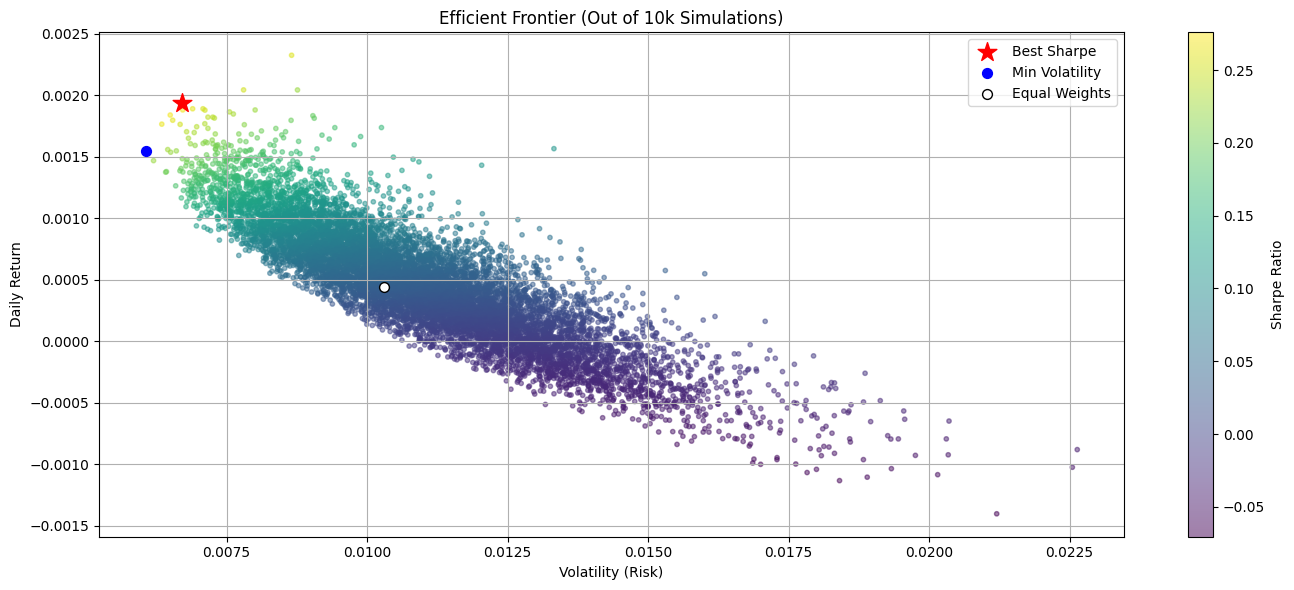
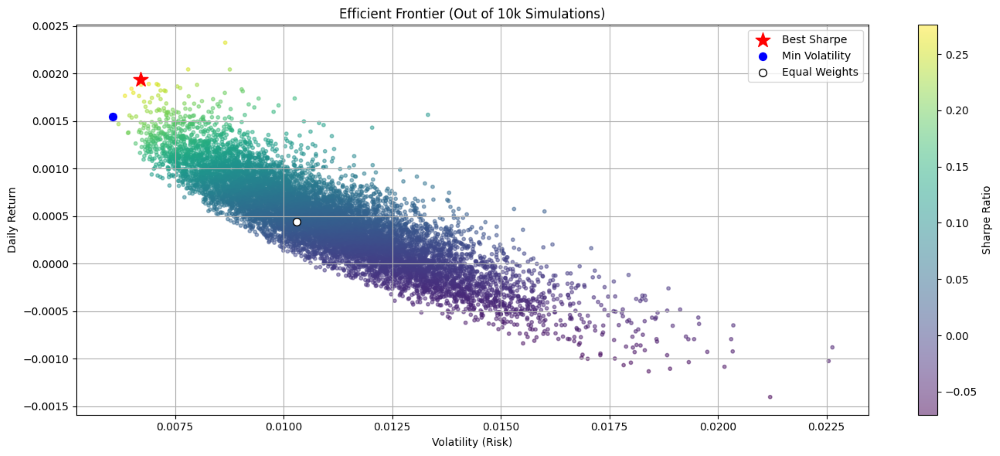
updated some imgs

diff --git a/src/data/Projects.js b/src/data/Projects.js
@@ -1,7 +1,8 @@
 import rocket from "../assets/rocket-1.jpg"
-import portfolio from "../assets/plate.jpg"
+import portfolio from "../assets/snow-1.PNG"
 import finance from "../assets/plate.jpg"
 import optimize from "../assets/optimization_output.png"
+import physic from "../assets/hero.png"
 
 // edit desc soon
 export const projects = [
@@ -25,7 +26,7 @@ export const projects = [
     title: "Physics Engine",
     desc: `2D physics engine in Python simulating rigid body dynamics, collision detection, and response.`,
     tags: ["Python", "TypeScript"],
-    img: rocket,
+    img: physic,
     link: "",
   },
   {